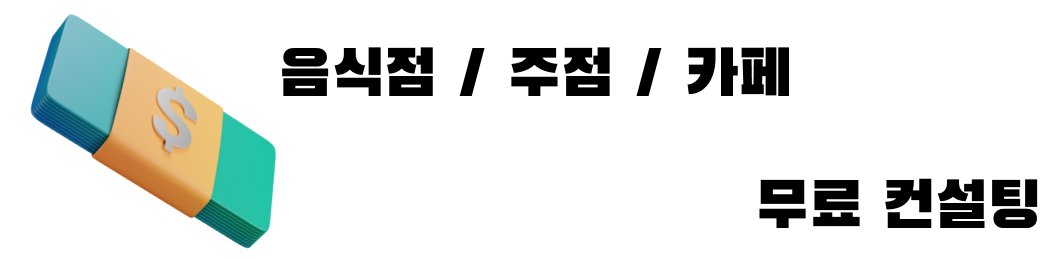
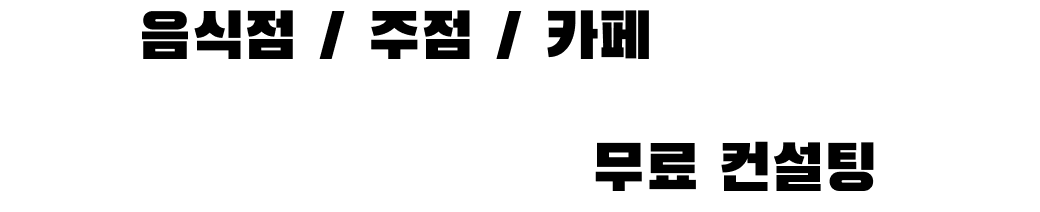
landing page fix v1

Changed region(s): [[0.0308, 0.0283, 0.7692, 0.9623], [0.5538, 0.6509, 1.0, 0.9057]]

diff --git a/build/index.html b/build/index.html
@@ -1,1 +1,1 @@
-<!doctype html><html lang="ko"><head><meta charset="UTF-8"><meta name="viewport" content="width=device-width,initial-scale=1"><meta name="naver-site-verification" content="dc00405854bb4251f3fa24993ce6e7a362c8bd25"/><meta name="google-site-verification" content="-95VR64_-_64IpT-YRDe3OHJbq_aZJYondboX-pp_k4"/><meta name="title" content="반프랜차이즈 | 장사면허"><meta name="description" content="반프랜차이즈 | 요식업, 자영업, 음식점 솔루션 및 컨설팅"><meta name="robots" content="index,follow"><meta property="og:url" content="https://jangsalicense.com"/><meta property="og:type" content="website"/><meta property="og:title" content="반프랜차이즈 | 장사면허"/><meta property="og:description" content="반프랜차이즈 | 요식업, 자영업, 음식점 솔루션 및 컨설팅"/><meta property="og:image" content="img/logo-white.png"/><link rel="icon" type="image/x-icon" href="/img/favicon.ico"><link rel="preconnect" href="https://fonts.googleapis.com"><link rel="preconnect" href="https://fonts.gstatic.com" crossorigin><link href="https://fonts.googleapis.com/css2?family=East+Sea+Dokdo&family=Nanum+Gothic:wght@400;700;800&family=Noto+Sans+KR:wght@300;400;500;600;700;800;900&display=swap" rel="stylesheet"><title>반프랜차이즈 | 장사면허</title><script defer="defer" src="/static/js/main.a2ffa98f.js"></script><link href="/static/css/main.b3af858b.css" rel="stylesheet"></head><body id="root"></body></html>
+<!doctype html><html lang="ko"><head><meta charset="UTF-8"><meta name="viewport" content="width=device-width,initial-scale=1"><meta name="naver-site-verification" content="dc00405854bb4251f3fa24993ce6e7a362c8bd25"/><meta name="google-site-verification" content="-95VR64_-_64IpT-YRDe3OHJbq_aZJYondboX-pp_k4"/><meta name="title" content="반프랜차이즈 | 장사면허"><meta name="description" content="반프랜차이즈 | 요식업, 자영업, 음식점 솔루션 및 컨설팅"><meta name="robots" content="index,follow"><meta property="og:url" content="https://jangsalicense.com"/><meta property="og:type" content="website"/><meta property="og:title" content="반프랜차이즈 | 장사면허"/><meta property="og:description" content="반프랜차이즈 | 요식업, 자영업, 음식점 솔루션 및 컨설팅"/><meta property="og:image" content="img/logo-white.png"/><link rel="icon" type="image/x-icon" href="/img/favicon.ico"><link rel="preconnect" href="https://fonts.googleapis.com"><link rel="preconnect" href="https://fonts.gstatic.com" crossorigin><link href="https://fonts.googleapis.com/css2?family=East+Sea+Dokdo&family=Nanum+Gothic:wght@400;700;800&family=Noto+Sans+KR:wght@300;400;500;600;700;800;900&display=swap" rel="stylesheet"><title>반프랜차이즈 | 장사면허</title><script defer="defer" src="/static/js/main.a2ffa98f.js"></script><link href="/static/css/main.549ab4f2.css" rel="stylesheet"></head><body id="root"></body></html>

diff --git a/build/static/css/main.549ab4f2.css b/build/static/css/main.549ab4f2.css
@@ -1,0 +1,2 @@
+#text3-privacy{color:#000;font-size:16px;font-weight:500;margin:130px 100px 100px}.strongtext10{color:#000;font-size:22px;font-weight:600}.strongtext-privacy{color:#000;font-size:32px;font-weight:600;margin:50px 0 100px;text-align:center}@media screen and (max-width:690px){#text3-privacy{color:#000;font-size:16px;font-weight:500;margin:130px 20px 100px}}*{box-sizing:border-box;margin:0;padding:0}#main1-background{align-items:center;background-color:#14da9e;display:flex;flex-direction:column;height:auto;padding-bottom:10vh;padding-top:15vh;width:100%}#main1-background img{height:auto;max-width:90%}#main1-img3{margin-top:4vh}.main2-background{align-items:center;background-color:#fff;background-image:url(/static/media/money.4f299f3a791e3cf38258.png);background-position:50%;background-repeat:no-repeat;background-size:cover;display:flex;flex-direction:column;height:auto;padding-bottom:15vh;padding-top:10vh;width:100%}.main2-background img{height:auto;max-width:90%}.main2-img2{margin:2vh 0}.main2-img3{margin-bottom:3vh}.main3-background{align-items:center;background-color:#feec47;display:flex;flex-direction:column;height:auto;padding-bottom:10vh;padding-top:15vh;width:100%}.main3-background img{height:auto;max-width:90%}.main3-img1{margin-bottom:3vh}.main3-img2{margin-bottom:5vh}.main4-background{align-items:center;background-color:#fff;background-image:url(/static/media/deco.fcbd9fd4c2e4b2b666ac.png);background-position:100%;background-repeat:no-repeat;background-size:contain;display:flex;flex-direction:column;height:auto;padding-bottom:15vh;padding-top:10vh;width:100%}.main4-background img{height:auto;max-width:90%}.main4-img2{margin:2vh 0}.main4-img3{margin-bottom:3vh}.main4-img5{margin-top:5vh}.main6-background{align-items:center;background-color:#f1f1f1;display:flex;flex-direction:column;height:auto;padding-bottom:10vh;padding-top:15vh;width:100%}.main6-background img{height:auto;max-width:90%;transition:transform .3s ease,opacity .3s ease}.main6-img1{margin-bottom:5vh}.main6-img2{margin-bottom:4vh}.main6-img3:hover{transform:scale(1.05)}
+/*# sourceMappingURL=main.549ab4f2.css.map*/

diff --git a/src/style/main1.css b/src/style/main1.css
@@ -18,5 +18,5 @@
 }
 
 #main1-img3{
-  margin-top: 2vh;
+  margin-top: 4vh;
 }
